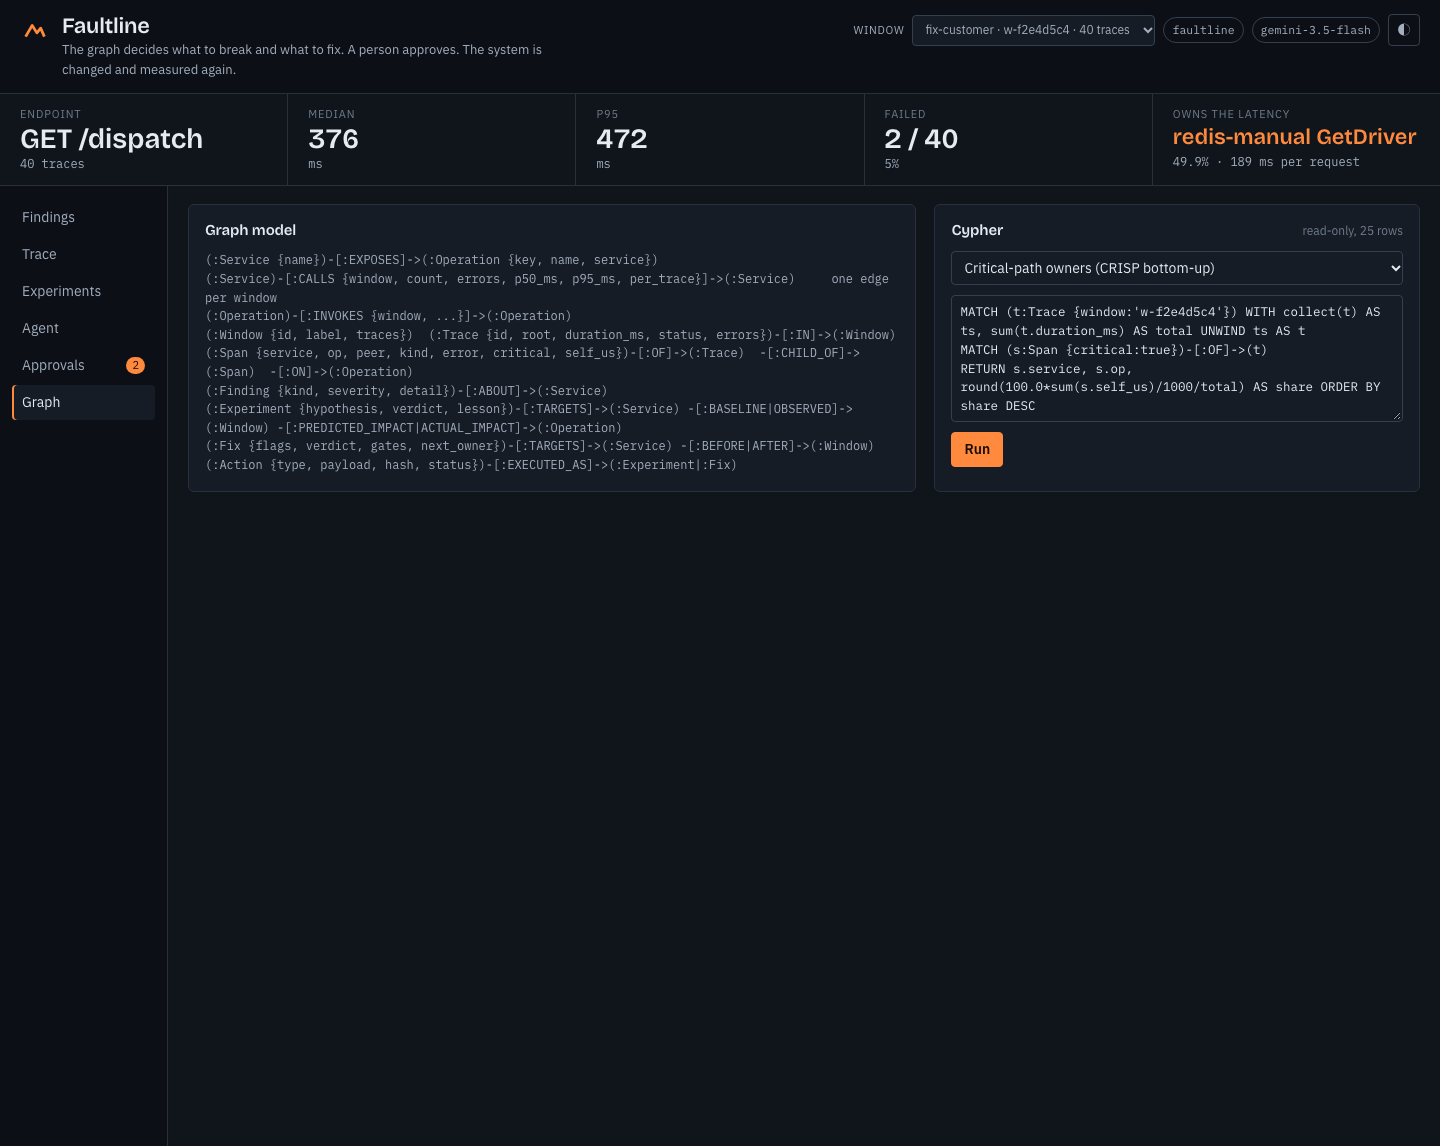
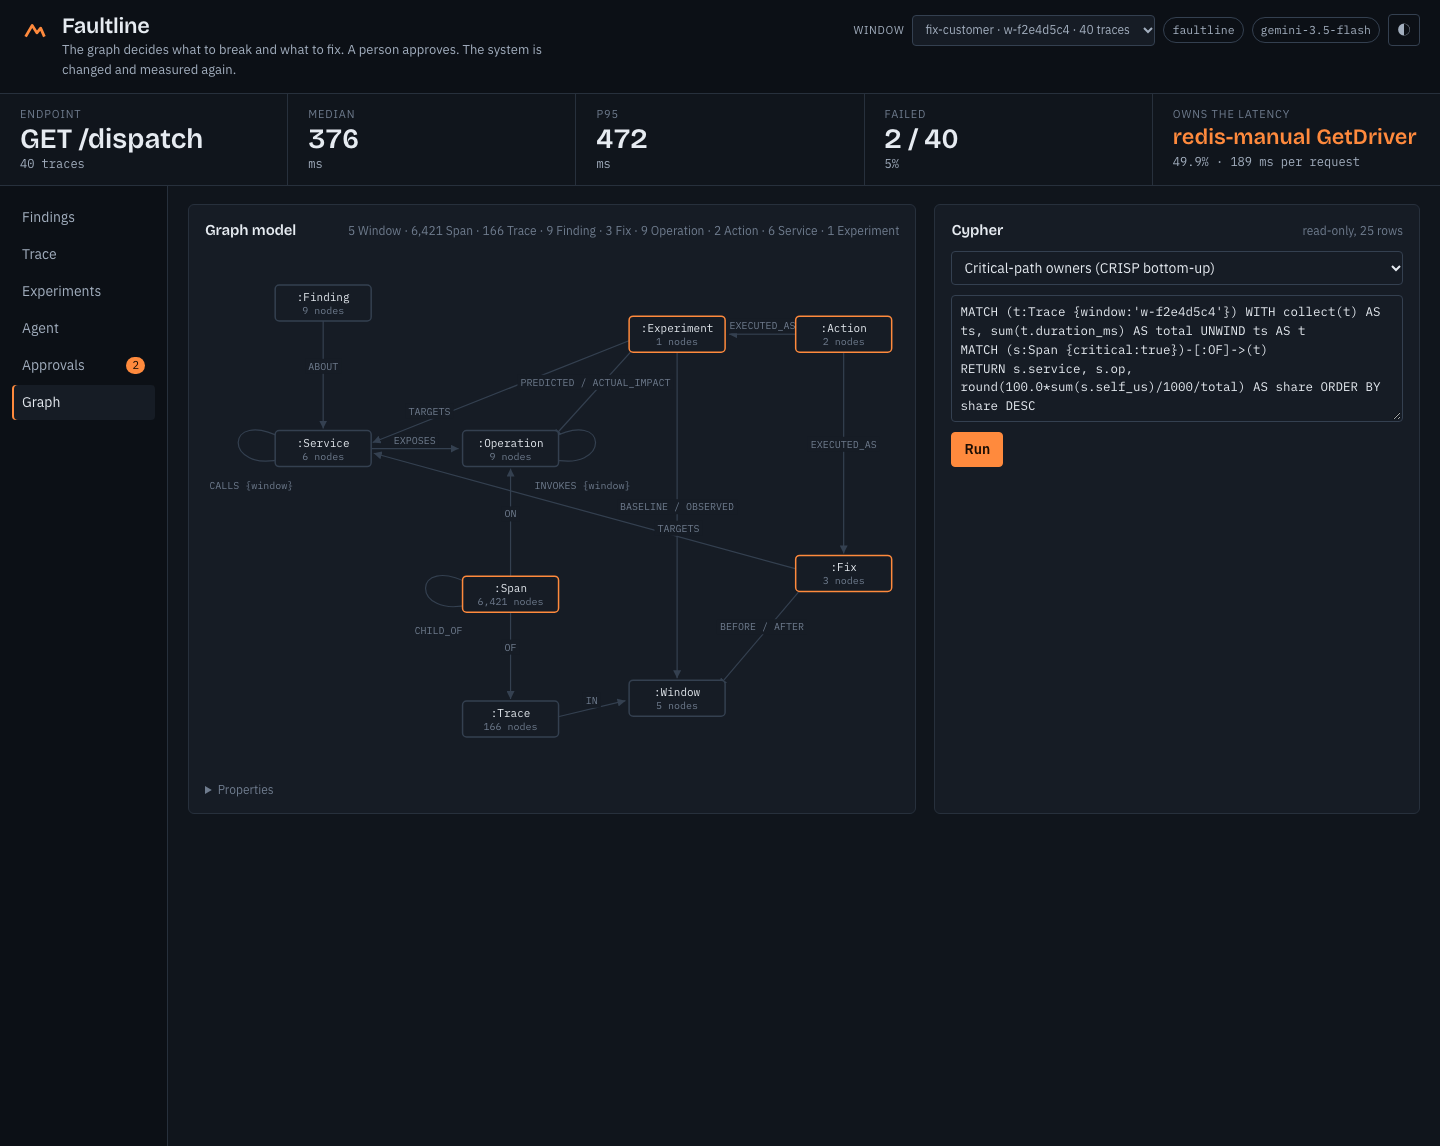
Graph view: schema diagram with live node counts instead of a text dump

diff --git a/web/app.js b/web/app.js
@@ -252,8 +252,66 @@ const EXAMPLES = (w) => ({
   "Silent retries": `MATCH (c1:Span {window:'${w}', error:true})-[:CHILD_OF]->(p)<-[:CHILD_OF]-(c2:Span)\nWHERE c1.op = c2.op AND c2.start_us > c1.start_us\nRETURN c1.service, c1.op, count(DISTINCT c1) AS retried`,
   "Approvals bound to evidence": `MATCH (a:Action) OPTIONAL MATCH (a)-[:EXECUTED_AS]->(x)\nRETURN a.id, a.type, a.status, left(a.hash, 12) AS evidence, x.id, coalesce(x.verdict, '') AS verdict ORDER BY a.ts DESC`,
 });
+const SCHEMA = {
+  nodes: [
+    { id: "Finding", x: 0.17, y: 0.10, sub: "kind, severity, detail" },
+    { id: "Service", x: 0.17, y: 0.38, sub: "name", loop: "left" }, { id: "Operation", x: 0.44, y: 0.38, sub: "key, name, service", loop: "right" },
+    { id: "Span", x: 0.44, y: 0.66, sub: "critical, self_us, peer, proto, code", loop: "left" }, { id: "Trace", x: 0.44, y: 0.90, sub: "id, root, duration_ms, status" },
+    { id: "Window", x: 0.68, y: 0.86, sub: "id, label, traces" },
+    { id: "Experiment", x: 0.68, y: 0.16, sub: "hypothesis, verdict, lesson" }, { id: "Fix", x: 0.92, y: 0.62, sub: "flags, verdict, gates" },
+    { id: "Action", x: 0.92, y: 0.16, sub: "type, payload, hash, status" },
+  ],
+  edges: [
+    ["Service", "Service", "CALLS {window}"], ["Service", "Operation", "EXPOSES"], ["Operation", "Operation", "INVOKES {window}"],
+    ["Span", "Operation", "ON"], ["Span", "Span", "CHILD_OF"], ["Span", "Trace", "OF"], ["Trace", "Window", "IN"],
+    ["Finding", "Service", "ABOUT"], ["Experiment", "Service", "TARGETS", 0.78], ["Experiment", "Operation", "PREDICTED / ACTUAL_IMPACT"],
+    ["Experiment", "Window", "BASELINE / OBSERVED"], ["Fix", "Service", "TARGETS", 0.28], ["Fix", "Window", "BEFORE / AFTER"],
+    ["Action", "Experiment", "EXECUTED_AS"], ["Action", "Fix", "EXECUTED_AS"],
+  ],
+};
+function drawSchema(counts) {
+  const svg = d3.select("#schema"); svg.selectAll("*").remove();
+  const W = svg.node().clientWidth || 700, H = 520; svg.attr("viewBox", `0 0 ${W} ${H}`);
+  const pos = {}; SCHEMA.nodes.forEach((n) => (pos[n.id] = { x: n.x * W, y: n.y * H }));
+  const ember = css("--ember"), line2 = css("--line-2"), panel = css("--panel");
+  svg.append("defs").append("marker").attr("id", "sarrow").attr("viewBox", "0 -4 8 8").attr("refX", 8).attr("markerWidth", 8).attr("markerHeight", 8).attr("markerUnits", "userSpaceOnUse").attr("orient", "auto")
+    .append("path").attr("d", "M0,-4L8,0L0,4").attr("fill", line2);
+  const g = svg.append("g");
+  for (const [a, b, rel, at = 0.5] of SCHEMA.edges) {
+    const A = pos[a], B = pos[b];
+    if (a === b) {
+      const side = SCHEMA.nodes.find((n) => n.id === a).loop || "left";
+      let d, lx, ly, anchor = "middle";
+      if (side === "left") { d = `M${A.x - 40},${A.y - 10} C${A.x - 100},${A.y - 42} ${A.x - 100},${A.y + 26} ${A.x - 40},${A.y + 10}`; lx = A.x - 72; ly = A.y + 40; }
+      else if (side === "top") { d = `M${A.x - 14},${A.y - 18} C${A.x - 50},${A.y - 70} ${A.x + 50},${A.y - 70} ${A.x + 14},${A.y - 18}`; lx = A.x; ly = A.y - 62; }
+      else { d = `M${A.x + 40},${A.y - 10} C${A.x + 100},${A.y - 42} ${A.x + 100},${A.y + 26} ${A.x + 40},${A.y + 10}`; lx = A.x + 72; ly = A.y + 40; }
+      g.append("path").attr("d", d).attr("fill", "none").attr("stroke", line2).attr("stroke-width", 1.2).attr("marker-end", "url(#sarrow)");
+      g.append("text").attr("class", "rel").attr("x", lx).attr("y", ly).attr("text-anchor", anchor).text(rel);
+      continue;
+    }
+    const dx = B.x - A.x, dy = B.y - A.y, L = Math.hypot(dx, dy), ux = dx / L, uy = dy / L;
+    const x1 = A.x + ux * 48, y1 = A.y + uy * 18, x2 = B.x - ux * 52, y2 = B.y - uy * 20;
+    g.append("line").attr("x1", x1).attr("y1", y1).attr("x2", x2).attr("y2", y2).attr("stroke", line2).attr("stroke-width", 1.2).attr("marker-end", "url(#sarrow)");
+    const mx = x1 + (x2 - x1) * at, my = y1 + (y2 - y1) * at;
+    const t = g.append("text").attr("class", "rel").attr("x", mx).attr("y", my - 5).attr("text-anchor", "middle").text(rel);
+    const bb = t.node().getBBox();
+    g.insert("rect", () => t.node()).attr("x", bb.x - 3).attr("y", bb.y - 1).attr("width", bb.width + 6).attr("height", bb.height + 2).attr("fill", panel);
+  }
+  const node = svg.append("g").selectAll("g").data(SCHEMA.nodes).join("g").attr("transform", (d) => `translate(${pos[d.id].x},${pos[d.id].y})`);
+  node.append("rect").attr("x", -48).attr("y", -18).attr("width", 96).attr("height", 36).attr("rx", 4).attr("fill", panel)
+    .attr("stroke", (d) => ["Span", "Experiment", "Fix", "Action"].includes(d.id) ? ember : line2).attr("stroke-width", 1.5);
+  node.append("text").attr("text-anchor", "middle").attr("dy", "-2").text((d) => `:${d.id}`);
+  node.append("text").attr("class", "sub").attr("text-anchor", "middle").attr("dy", "11").text((d) => counts[d.id] != null ? `${counts[d.id].toLocaleString()} nodes` : "");
+  node.append("title").text((d) => `${d.id} {${d.sub}}`);
+}
 async function loadGraphView() {
   const m = await api("/api/model"); $("#model").textContent = m.text;
+  try {
+    const c = await post("/api/query", { cypher: "MATCH (n) UNWIND labels(n) AS label RETURN label, count(*)" });
+    const counts = {}; (c.rows || []).forEach(([l, n]) => (counts[l] = n));
+    drawSchema(counts);
+    $("#model-counts").textContent = Object.entries(counts).map(([l, n]) => `${n.toLocaleString()} ${l}`).join(" · ");
+  } catch (e) { drawSchema({}); }
   const ex = EXAMPLES(state.window); const sel = $("#examples");
   sel.innerHTML = Object.keys(ex).map((k) => `<option>${esc(k)}</option>`).join("");
   $("#cypher").value = ex[sel.value];

diff --git a/web/index.html b/web/index.html
@@ -146,8 +146,9 @@
     <section class="view" id="view-graph" hidden>
       <div class="two">
         <div class="panel">
-          <div class="panel-head"><h2>Graph model</h2></div>
-          <pre id="model" class="model"></pre>
+          <div class="panel-head"><h2>Graph model</h2><span class="hint" id="model-counts"></span></div>
+          <svg id="schema" role="img" aria-label="Graph schema: node labels and relationship types"></svg>
+          <details><summary class="hint">Properties</summary><pre id="model" class="model"></pre></details>
         </div>
         <div class="panel">
           <div class="panel-head"><h2>Cypher</h2><span class="hint">read-only, 25 rows</span></div>

diff --git a/web/styles.css b/web/styles.css
@@ -179,3 +179,9 @@ td.mono, .mono { font-family: var(--mono); font-size: 12.5px; }
   .findings li { grid-template-columns: 4px minmax(0, 1fr); } .findings .kind { grid-column: 2; min-width: 0; } .findings .text { grid-column: 2; }
 }
 @media (prefers-reduced-motion: reduce) { * { transition: none !important; animation: none !important; } }
+
+#schema { width: 100%; height: 520px; max-width: 100%; display: block; }
+#schema text { font-family: var(--mono); font-size: 11px; fill: var(--fg); }
+#schema .rel { fill: var(--fg-3); font-size: 10px; }
+#schema .sub { fill: var(--fg-3); font-size: 10px; }
+details summary { cursor: pointer; }
